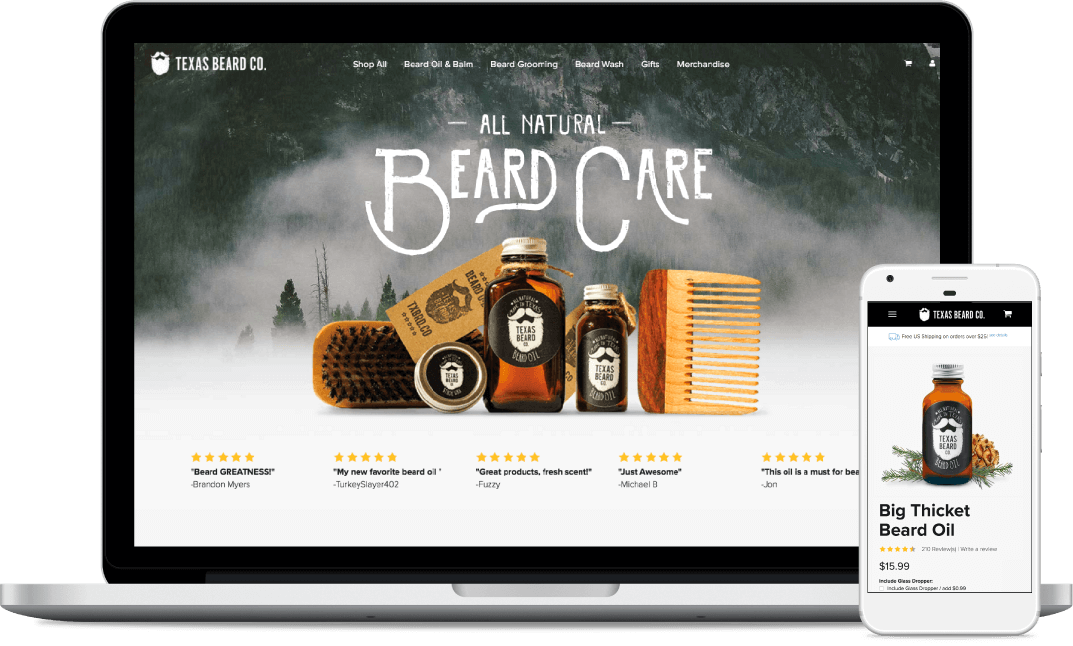
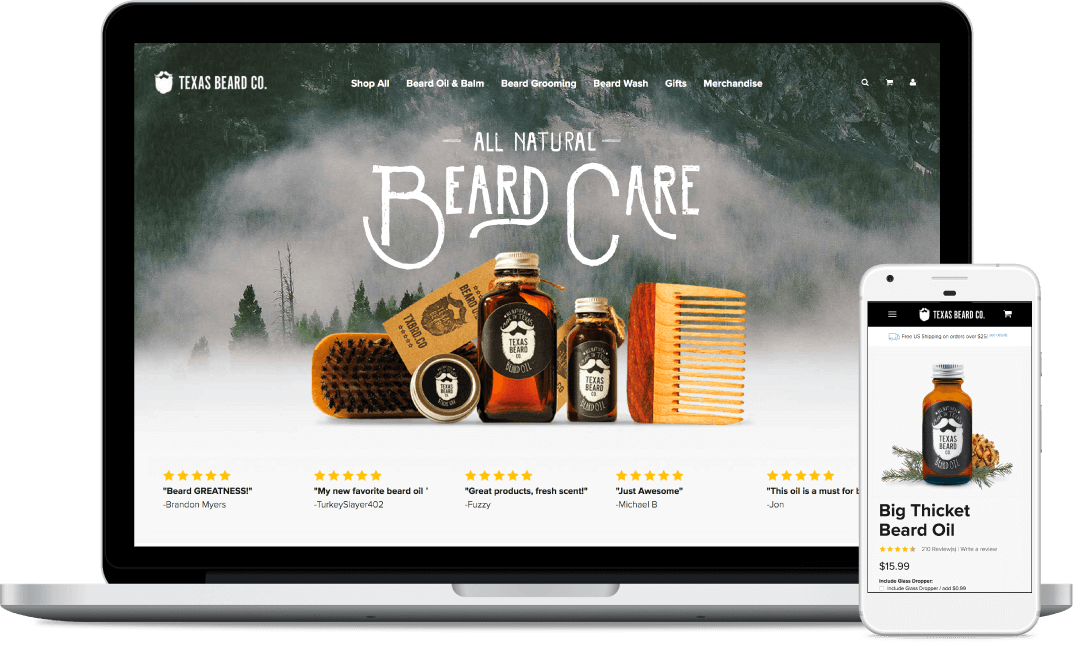
Spark recent work

diff --git a/css/style.css b/css/style.css
@@ -1438,9 +1438,10 @@ body.thanks-page h1 {
 }
 .recent-work-spark > img:nth-of-type(2) {
     position: absolute;
-    top: 385px;
+    top: 362px;
     left: 710px;
     z-index: -1;
+    width: 550px;
 }
 
 @media (max-width: 980px) {
